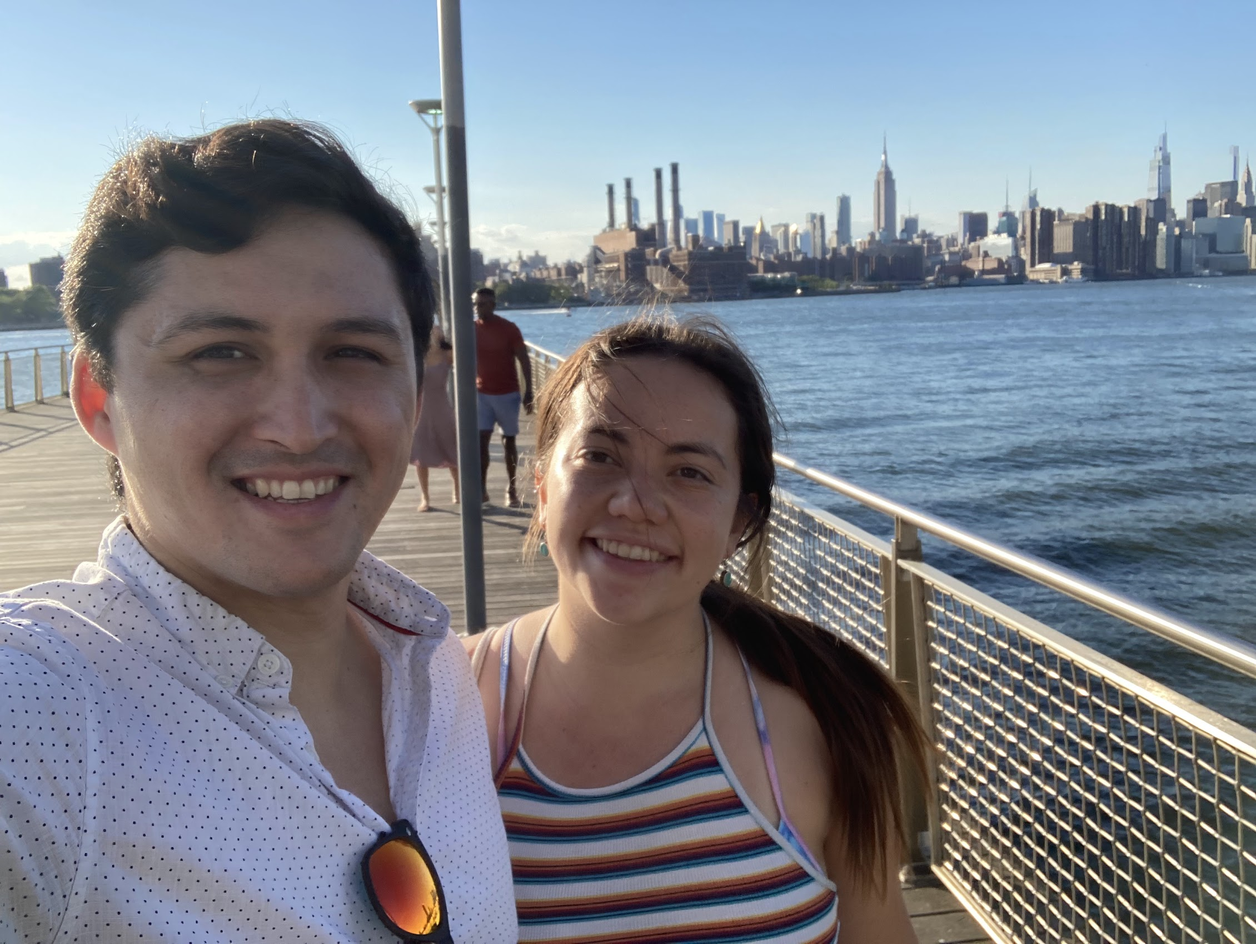
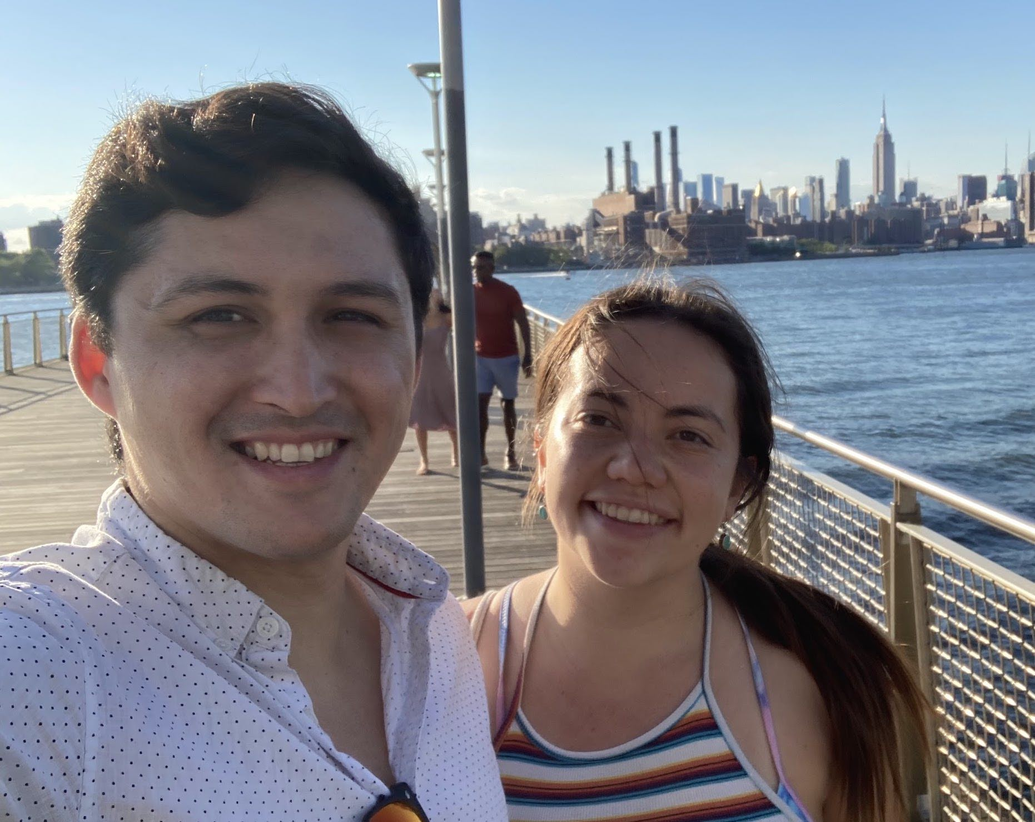
crop and compress images, cachebreaker, more copy edits

diff --git a/index.html b/index.html
@@ -2,7 +2,7 @@
   <head>
     <meta content="width=device-width, initial-scale=1" name="viewport" />
     
-    <link rel="stylesheet" href="./style.css" />
+    <link rel="stylesheet" href="./style.css?cacheBreaker=20240131" />
     <title>Jacqueline & Peter</title>
 
     <!-- Social -->
@@ -81,12 +81,12 @@
           <div class="timeline-event slideshow-marker" data-slide="story_times-square" id="our-story_how-we-met">
             <h3>A chance encounter</h3>
             <p>
-              Jackie met Peter while she was on vacation in New York. 
-              Free of plans one evening, Jackie's friends suggested she try a dating app to kill time. 
-              Having exhausted his monthly swipes on Tinder, Peter gave a new app a try. 
-              The two downloaded <a href="https://trybounce.com/" target="_blank" class="dark">Bounce</a>, 
+              Jackie met Peter on <b class="dark">May 18th, 2019</b> while she was vacationing in New York. 
+              Free of plans that evening, Jackie's friends suggested she use a dating app to kill time. 
+              Having exhausted his monthly swipes on Tinder, Peter was also willing to give a new app a try. 
+              They downloaded <a href="https://trybounce.com/" target="_blank" class="dark">Bounce</a>, swiped right,
               and went out that same evening. The couple went on two dates during 
-              Jackie's vacation and kept in touch after she left. Bounce went on to be a commercial failure,
+              Jackie's vacation and kept in touch after she returned to London. Bounce went on to be a commercial failure,
               and was removed from the app store a year later.
             </p>
           </div>
@@ -107,14 +107,14 @@
               In 2020, the pair was fortunate enough to take advantage of working remote.
               Peter lived with Jackie in London for four months, and in Taipei for another two.
               In spring of 2021, the couple moved back to New York together. Jackie secured a work visa
-              through her company. Peter left his job before he could be reprimanded for 
-              slacking off for six months.
+              through her company. Peter left his job before he could be reprimanded for six months of
+              slacking off.
             </p>
           </div>
           <div class="timeline-event slideshow-marker" data-slide="story_wedding">
             <h3>Our wedding</h3>
             <p>
-              The couple vowed to never spend their lives separated by an ocean ever again. So,
+              The couple vowed to never spend their lives separated by an ocean again. So,
               on <b class="dark">June 3rd, 2022</b>, Jackie and Peter tied the knot! After City Hall, the couple 
               celebrated with a few friends in a Chinatown bar nearby.
             </p>
@@ -126,7 +126,7 @@
           </div>
           <h2 class="slideshow-marker" data-slide="event_wedding">Our celebration</h2>
           <p>
-            So now, we want to celebrate with you! With family spread far and wide, we decided
+            So now, we want to celebrate with you! With family and friends spread far and wide, we decided
             we could bring the party to you. That's why this year we will be
             hosting events in four of our favorite cities. Find us at one near you!
           </p>
@@ -207,7 +207,7 @@
                   <span class="text">See more</span><span class="spacer"></span>&rarr;
                 </span>
               </p> -->
-              <br />
+              <br /> <!-- FIXME: This is to get the spacing right, remove when we add a "See more" -->
               <div class="button-row">
                 <a href="https://forms.gle/HFnGDeVPKNYL57gbA" target="_blank">
                   <div class="rsvp-button">
@@ -238,7 +238,7 @@
                 </div>
               </div>
               <p>
-                Come find us in Las Vegas and celebrate on the anniversary of our first date.
+                Find us in Las Vegas and celebrate on the anniversary of our first date.
                 We will have dinner and drinks before hitting the strip!
                 <!-- at <a href="https://theresortatsummerlin.com/dining/fine-dining/jade-asian-kitchen-noodles/" target="_blank">Jade</a>
                 from <b>7pm to 10pm</b> in the Rampart Casino in Summerlin before hitting the strip. -->
@@ -291,7 +291,7 @@
                   <span class="text">See more</span><span class="spacer"></span>&rarr;
                 </span>
               </p> -->
-              <br />
+              <br /> <!-- FIXME: This is to get the spacing right, remove when we add a "See more" -->
               <div class="button-row">
                 <a href="https://forms.gle/LmznjLHMgfdyYD6R8" target="_blank">
                   <div class="rsvp-button">
@@ -366,9 +366,9 @@
                 </div>
               </div>
               <p>
-                To be announced!
+                Come with us to Jackie's hometown in Taiwan! More <b>details to come</b>.
               </p>
-              <br /><!-- This is to get the spacing right, remove if we add a "See more" -->
+              <br /><!-- FIXME: This is to get the spacing right, remove if we add a "See more" -->
             </div>
           </div>
         </section>
@@ -391,12 +391,11 @@
           </p>
           <h3 class="slideshow-marker" data-slide="qa_2">What is the dress code?</h3>
           <p>
-            Wine country casual, sports coats and sun dresses, yacht club initiation day.
+            Wine country casual, sport coats and sun dresses, yacht club initiation day.
           </p>
           <h3>Do you have a gift registry?</h3>
           <p>
             We do not have a registry, since there's no room in our apartment for new appliances.
-            <!-- Your presence is all we ask, but if your heart insists on giving, we will be grateful for any gifts. -->
           </p>
         </section>
         <section id="contact">
@@ -413,7 +412,7 @@
         <section id="footer"></section>
       </div>
     </div>
-    <script src="./main.js"></script>
+    <script src="./main.js?cacheBreaker=20240131"></script>
     <script>
       window.dataLayer = window.dataLayer || [];
       function gtag() {
